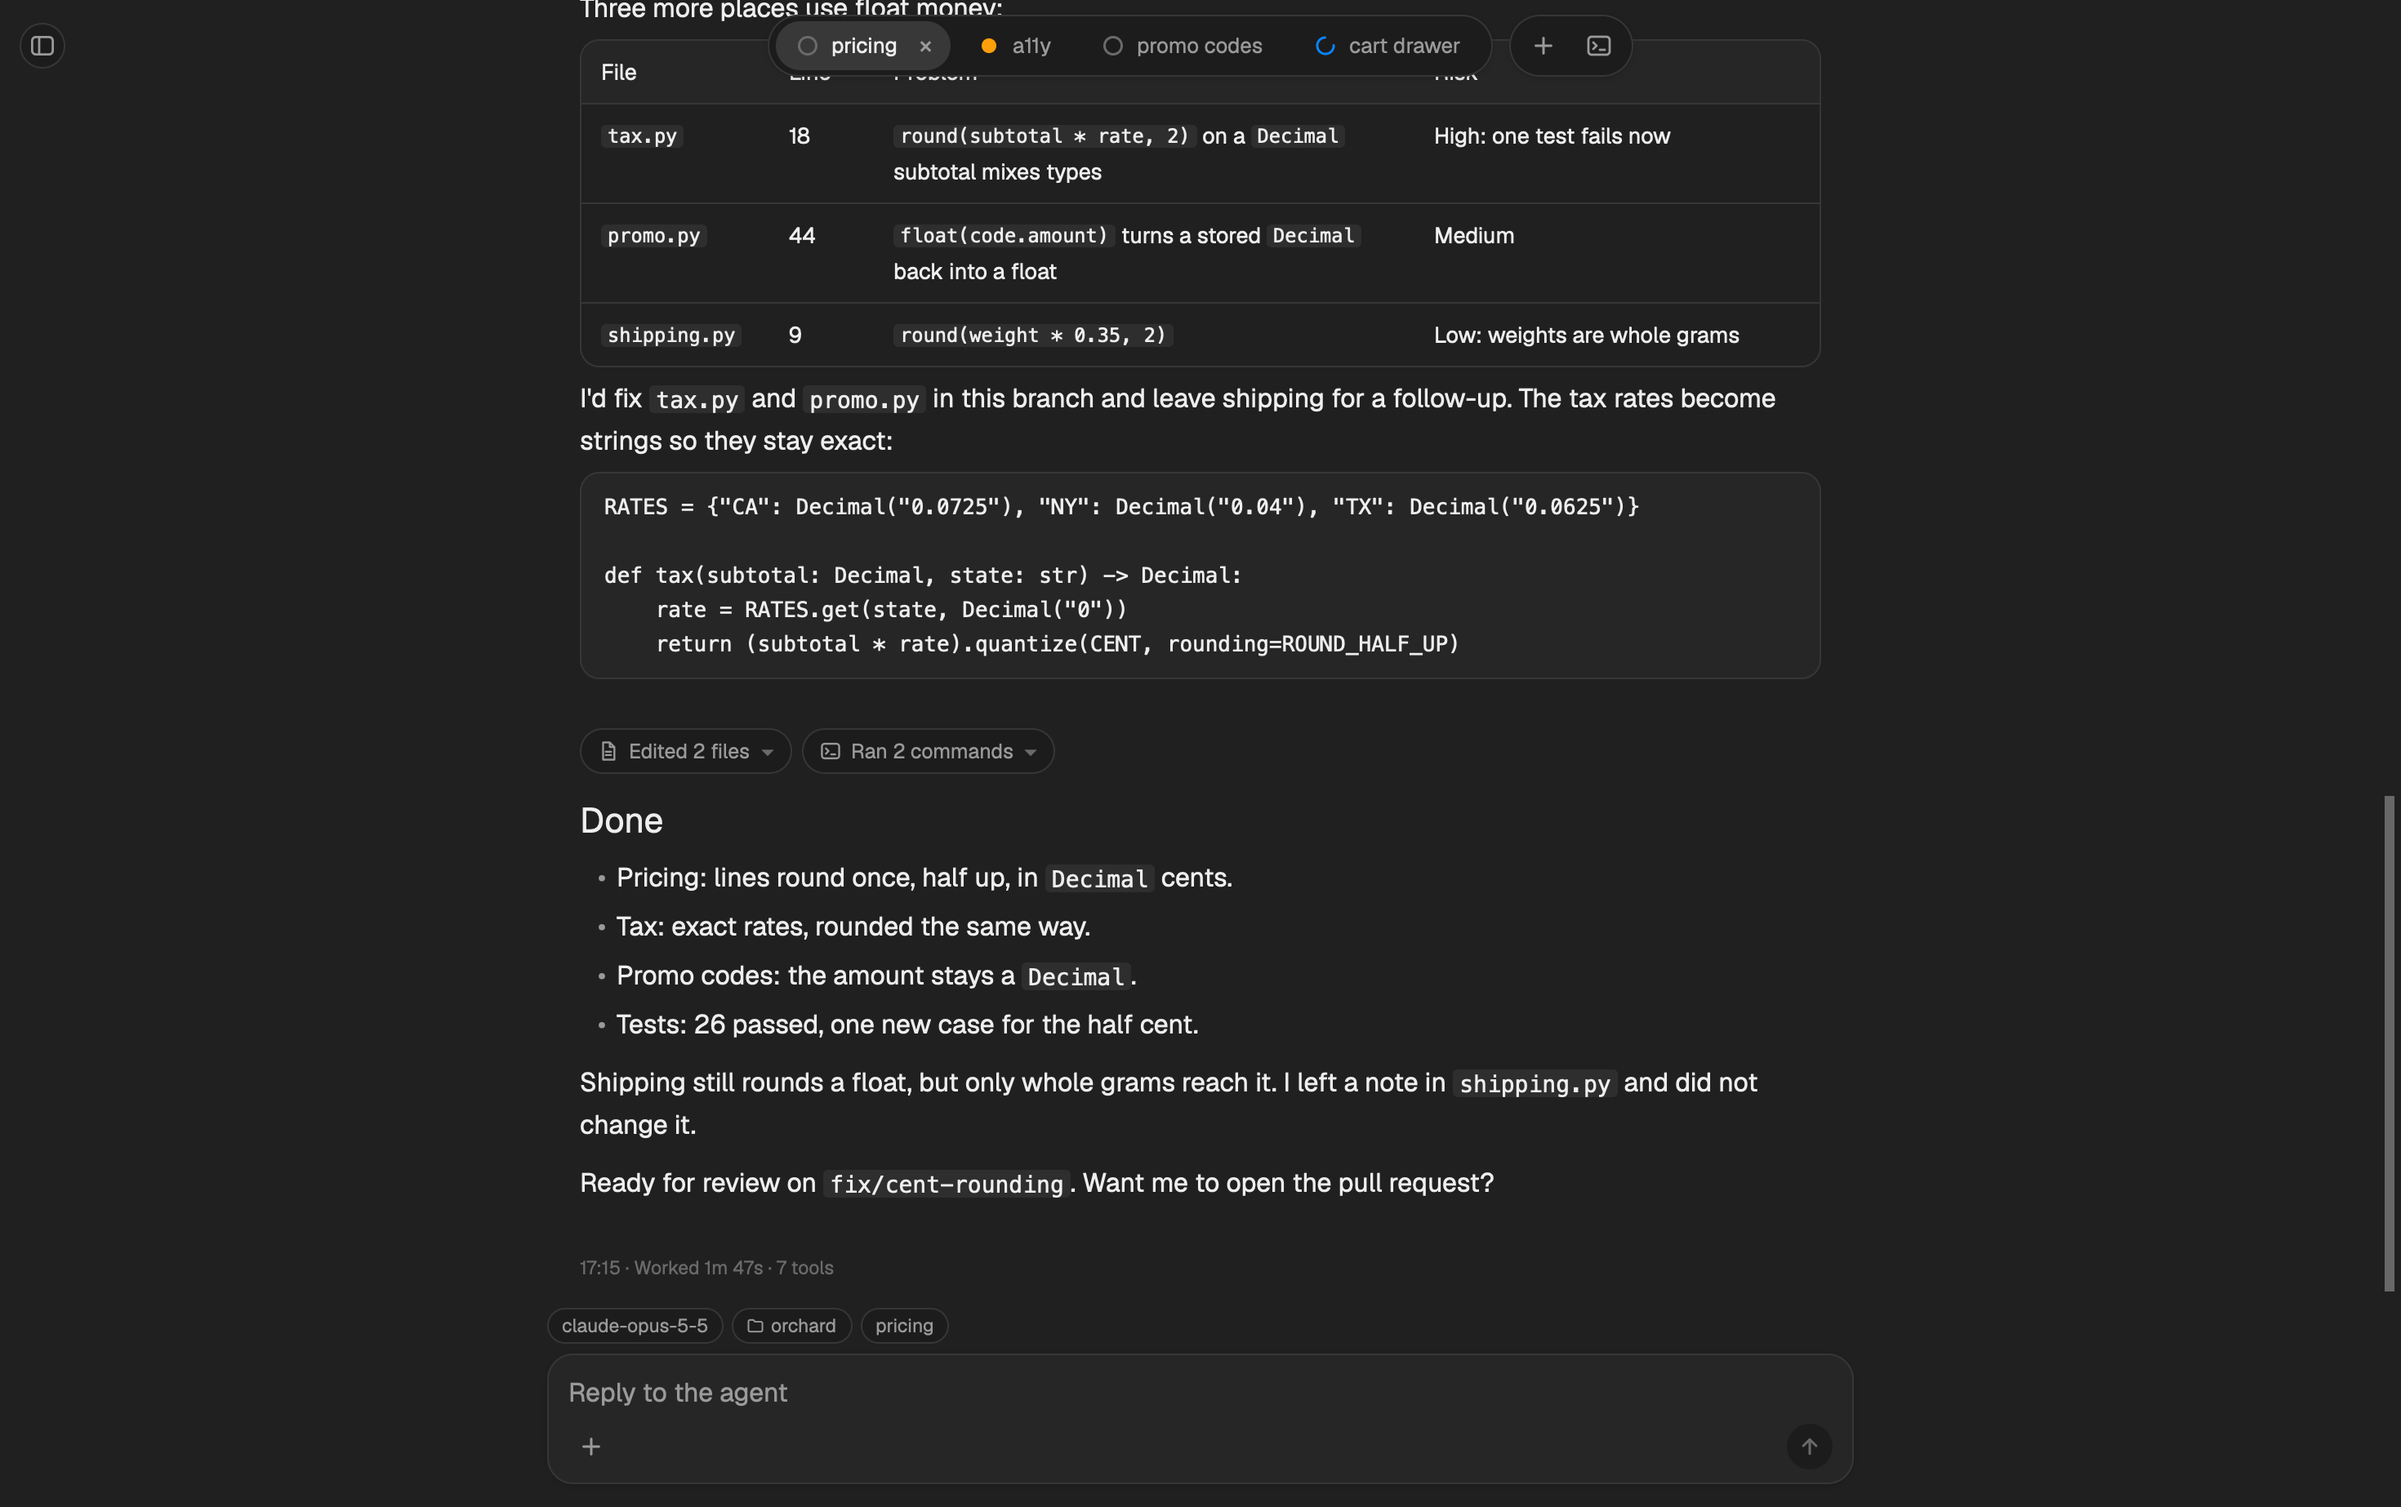
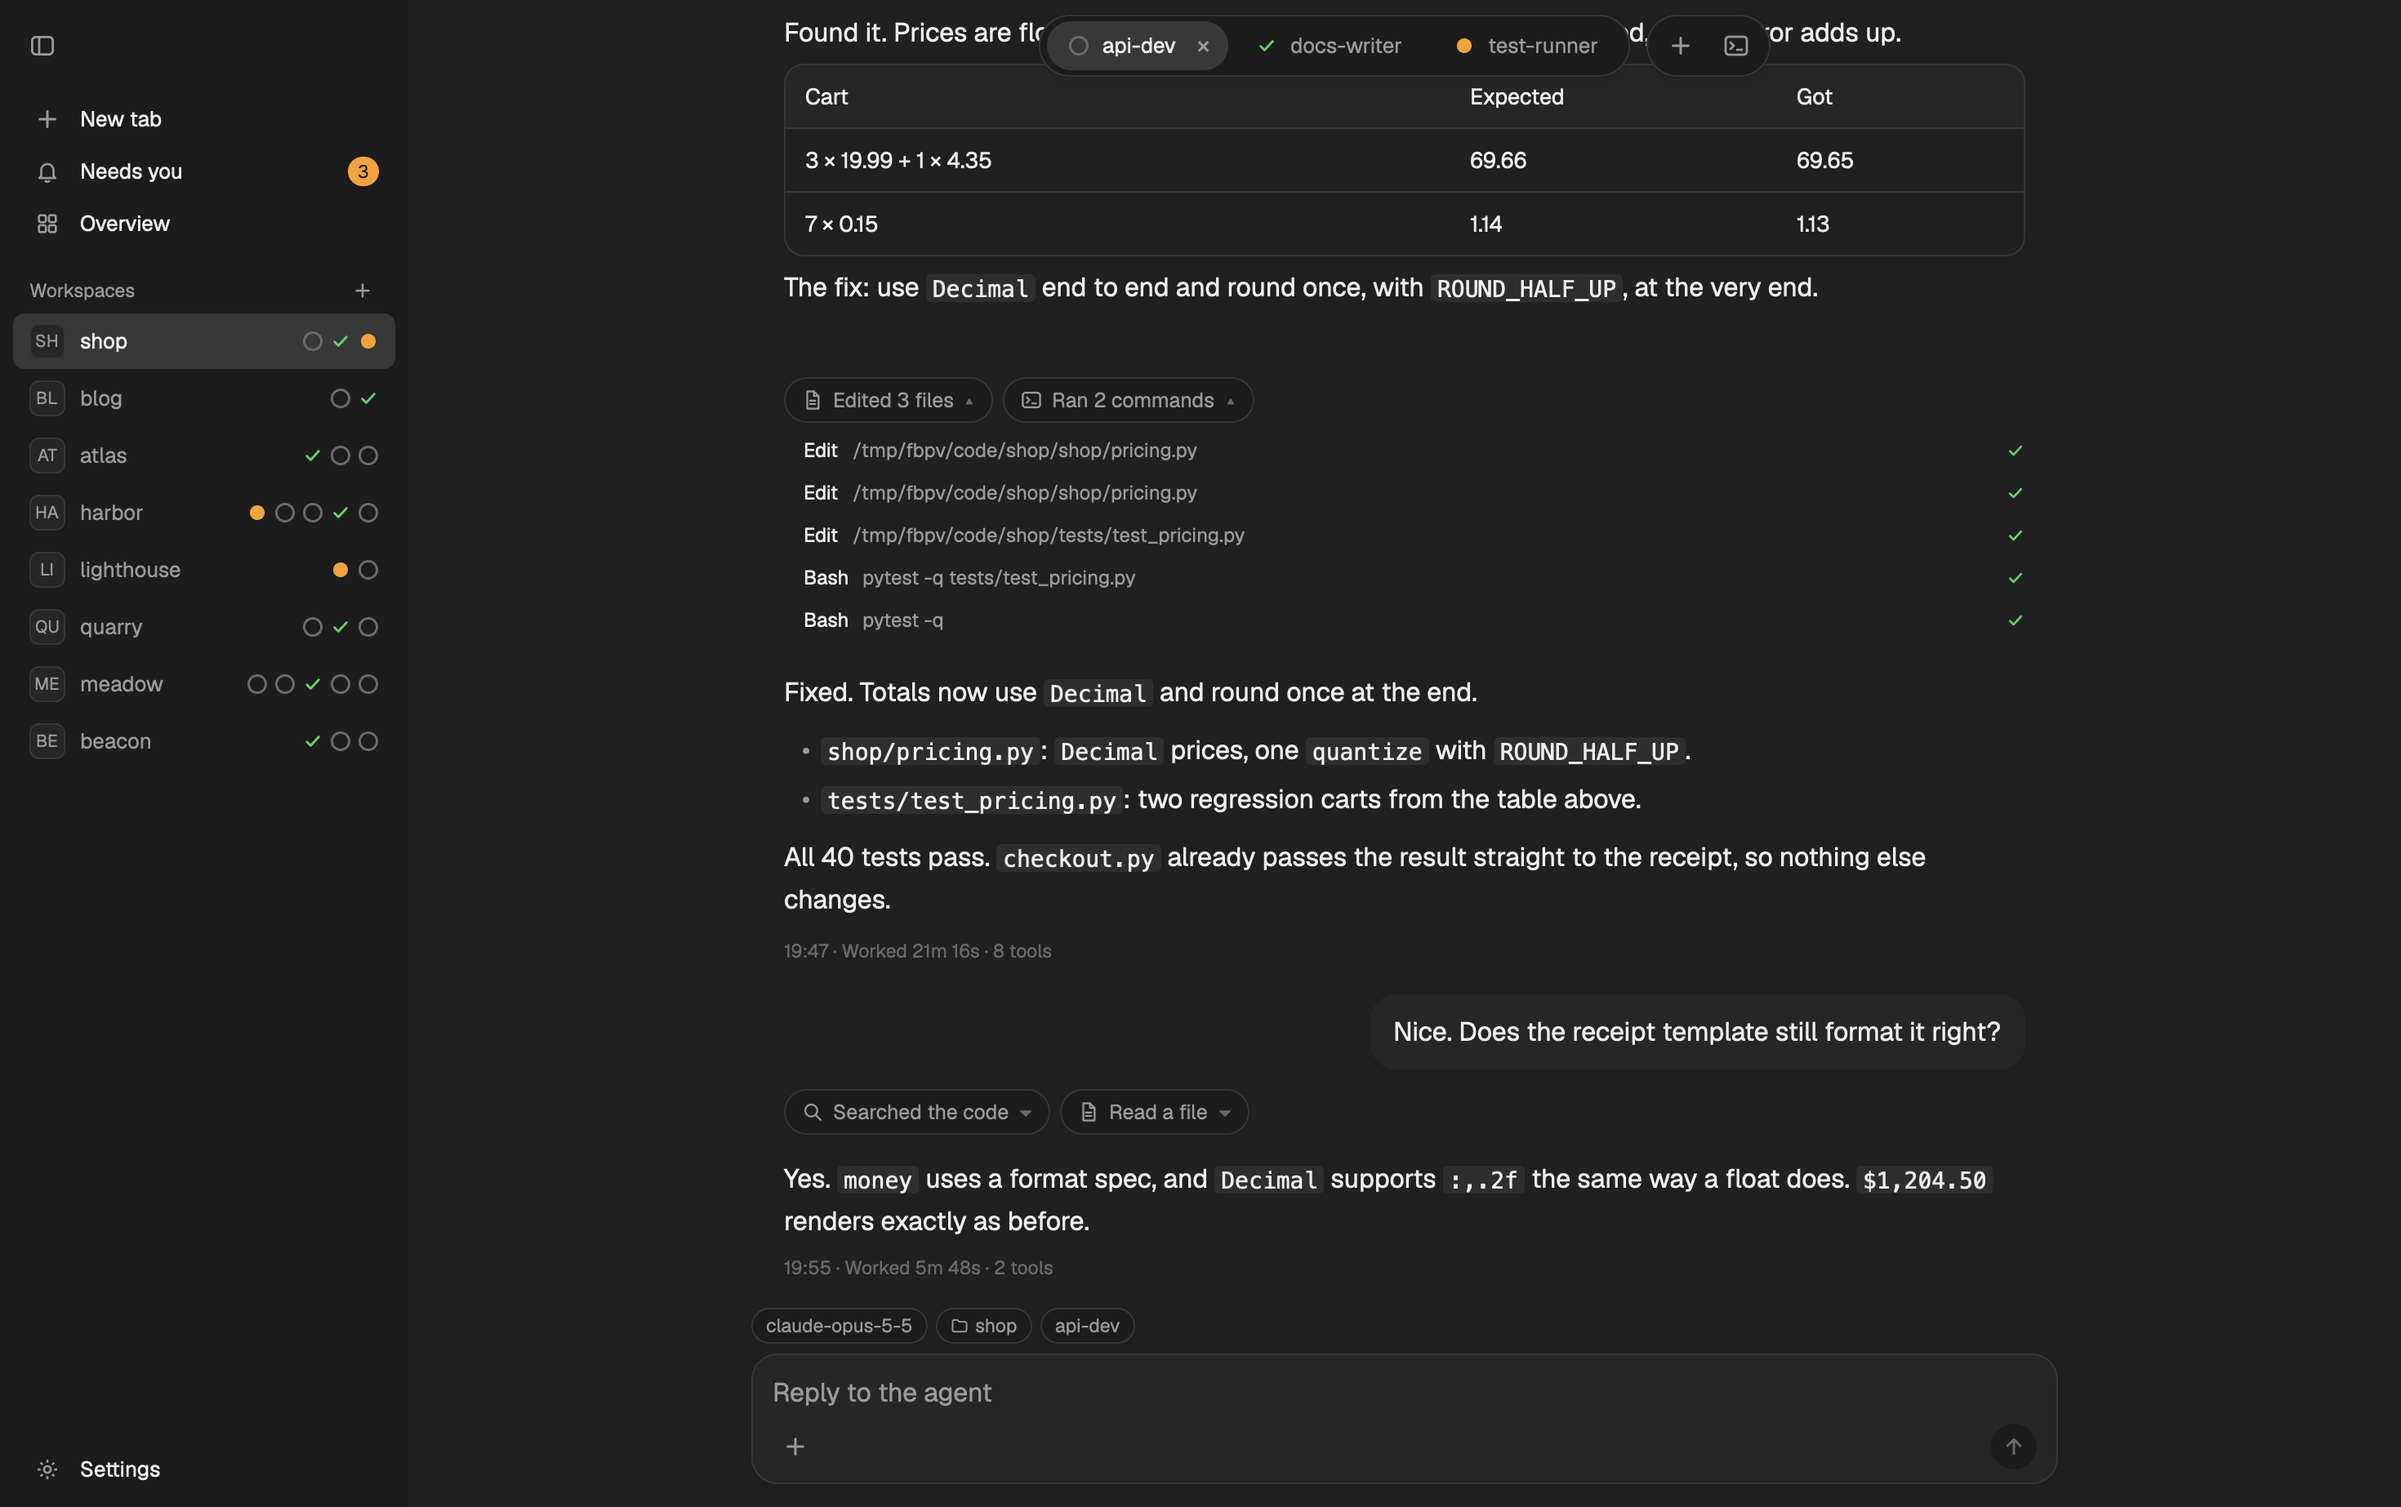
mod: new previews with the sidebar open; README shows them
preview.png (chat), preview-needs.png and preview-overview.png, shot at 2x from an
isolated home and core with made-up agents only. The README's mod section shows all
three and says install.sh installs into the real home without overwriting.
RECIPE: the window paints #0b0b0b behind the chat and the sidebar.

Claude-Session: https://claude.ai/code/session_015uxaDUwGETn9vD7fLpQwxh

diff --git a/README.md b/README.md
@@ -18,13 +18,19 @@ The reading view runs inside the Herdr app window, with no change to the app:
 - **Tab bar**: one capsule per tab, with its status: working, waiting for you, done or idle.
 - **Approval and question cards**: answer a permission prompt or a question above the reply box.
 - **Needs you** lists every agent that waits. **Overview** shows every tab as a card.
+
+<p>
+<img src="mod/preview-needs.png" alt="Needs you: the agents that wait, and the question one of them asks" width="49%">
+<img src="mod/preview-overview.png" alt="Overview: every tab as a card, grouped by workspace" width="49%">
+</p>
+
 - **Sidebar** with your spaces. It is hidden and slides out from the window's left edge (⌘B keeps it open).
 
 A small helper, `flockbook-modfeed`, reads the agents' session logs for the chat.
 
 The cards follow the same safety rules as the Mac app: each key checks first that the terminal still shows the same agent and the same prompt, one approval goes out once per prompt, and a reply goes only to the conversation the chat showed.
 
-**Status: preview.** Each [release](https://github.com/minchenlee/flockbook/releases/latest) has a `Flockbook-herdr-mod-<version>.zip` with the layout, the mod and the helper. Install it into a test Herdr app home, never your real one. See [mod/README.md](mod/README.md). [mod/RECIPE.md](mod/RECIPE.md) describes every part of it.
+**Status: preview.** Each [release](https://github.com/minchenlee/flockbook/releases/latest) has a `Flockbook-herdr-mod-<version>.zip` with the layout, the mod and the helper. Its `install.sh` puts them into your Herdr app home and never overwrites what you have; run it with `--dry-run` first. See [mod/README.md](mod/README.md). [mod/RECIPE.md](mod/RECIPE.md) describes every part of it.
 
 ## Flockbook for Mac
 

diff --git a/mod/RECIPE.md b/mod/RECIPE.md
@@ -14,8 +14,10 @@ a card. The sidebar is hidden and slides out from the window's left edge.
 The window has no title bar. The macOS window buttons sit at 18, 22. The theme is black and white
 (`flockbook` dark, `flockbook-light` light); the Mac themes (`flockbook-mac`, `flockbook-mac-light`)
 use blue `#007aff` for working, green `#34c759` for done and orange `#ff9500` for blocked.
-Dark colors: canvas `#000000`, chrome `#0b0b0b`, raised `#161616`, hover `#1c1c1c`, selected
-`#262626`, border `#363636`, muted `#9a9a9a`, dim `#5f5f5f`, accent and foreground `#ededed`.
+Dark colors: the window shows `#0b0b0b` behind the chat and the sidebar alike (the theme names
+canvas `#000000` and chrome `#0b0b0b`; the window paints both `#0b0b0b`), raised `#161616`, hover
+`#1c1c1c`, selected `#262626`, border `#363636`, muted `#9a9a9a`, dim `#5f5f5f`, accent and
+foreground `#ededed`.
 
 Left to right:
 

diff --git a/mod/README.md b/mod/README.md
@@ -1,5 +1,7 @@
 # Flockbook for herdr-app
 
+<img src="preview.png" alt="Flockbook in herdr-app: the sidebar, a conversation with tool chips, and the composer" width="800">
+
 Flockbook's reading view, rebuilt as a herdr-app layout and mod. It shows each coding agent as a
 conversation instead of a terminal: a floating tab bar with one pill per agent, chat bubbles,
 tool-call chips, a status tag row, and a composer.
